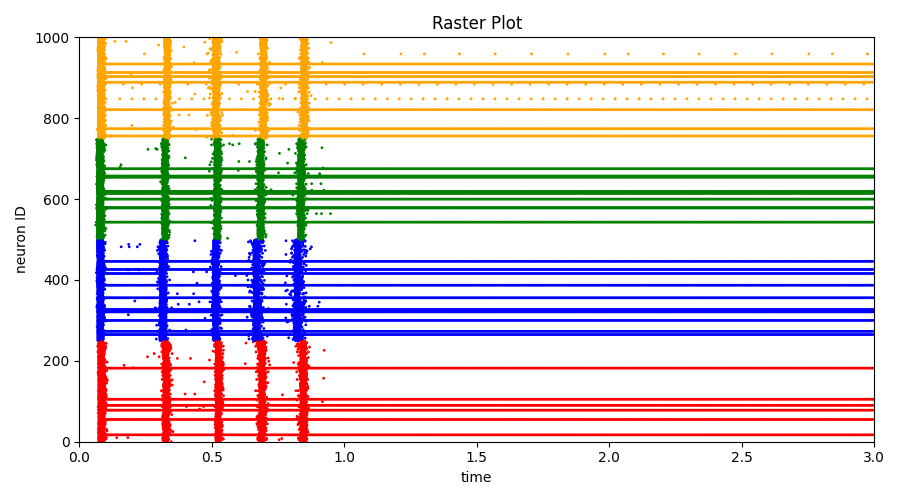
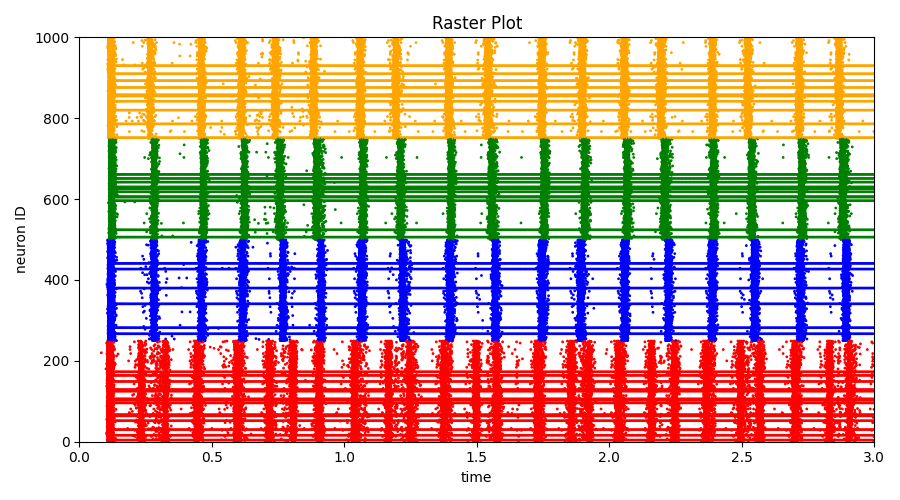
軽微な修正

diff --git a/demo_LIF.py b/demo_LIF.py
@@ -13,37 +13,48 @@ from line_profiler import LineProfiler
 
 
 def main():
-    SEED = int(random.random() * 1000)
 
-    # SEED = 890
-
-    # set a PQN cell
     N = int(input("number of neurons: "))
-    cell0=LIF(N = N)
-    dt = 0.0001
-
-    # set a synapse
-    synapses_out1 = tsodyks_markram(N, dt=dt, tau_rec=0.5, U=0.5)
-
+    
     # ---- initialization ----
+    SEED = int(random.random() * 1000)
+    # SEED = 890
+    dt = 1e-4  # [s]
     tmax=3    # length of simulation [s]
+    cell0=LIF(N = N)
+    synapses_out1 = tsodyks_markram(N, dt=dt, tau_rec=0.5, U=0.5)
     number_of_iterations=int(tmax/dt)
-    v0= np.zeros((number_of_iterations, N), dtype='float16')
-    spike = np.zeros(N)
+    I=np.zeros((number_of_iterations, N))
+    for i in range(100):
+        temp = 0.9*random.random()/dt
+        I[int(temp):int(0.1/dt+temp),random.randint(0,N-1)] = 0.13
+    # I[int(0.05/dt):int(0.15/dt),0] = 0.13
+    v0= np.zeros((number_of_iterations, N))
+    rasters = np.zeros((number_of_iterations, N), dtype=bool)
+    synapses_spike = np.zeros((13, N, N), dtype=bool)
+    output = np.zeros((number_of_iterations+int(0.5//dt), N))
+    next_input = np.zeros(N)
+    delays = np.random.randint(8, 13, size=(N,N))  # delay for each neuron
+    # delays = np.vstack([delays for _ in range(N)])  # shape (N, N)
+    col = np.arange(N).reshape(N,1)
     resovoir_weight = np.zeros((N, N))
     resovoir_origin = np.zeros((N, N))
     random.seed(SEED) # for reproducibility
     np.random.seed(SEED)
     num = 0
 
-    # --- Create reservoir weights with clustered structure ---
+
+    # ---- 重み行列の作成 ----
     resovoir_origin, mask = create_reservoir_matrix(N)
+    resovoir_weight = np.copy(resovoir_origin)
+    synapses_out1.mask = mask != 0
+    synapses_out1.mask_faci = mask == -1
+    synapses_out1.U[mask == -1] = 0
 
     # ---- 重み行列の可視化 ----
     visualize_matrix(resovoir_origin, num)
     num += 1
 
-    resovoir_weight = np.copy(resovoir_origin)
     # 正規化と自己結合強化
     for i in range(N):
         count = np.count_nonzero(resovoir_weight[i])
@@ -54,27 +65,11 @@ def main():
             synapses_out1.U[i][i] = 0.1
             synapses_out1.tau_rec[i][i] = 0.1
 
-    synapses_out1.mask = mask != 0
-    synapses_out1.mask_faci = mask == -1
-    synapses_out1.U[mask == -1] = 0
 
     # ----  NetworkX グラフに変換 ----
     show_network(resovoir_weight, N, SEED, num)
     num += 1
 
-    # ---- set step input ----
-    I=np.zeros((number_of_iterations, N))
-    for i in range(100):
-        temp = 0.9*random.random()/dt
-        I[int(temp):int(0.1/dt+temp),random.randint(0,N-1)] = 0.13
-    # I[int(0.05/dt):int(0.15/dt),0] = 0.13
-    rasters = np.zeros((number_of_iterations, N), dtype=bool)
-    synapses_spike = np.zeros((13, N, N), dtype=bool)
-    output = np.zeros((number_of_iterations+int(0.5//dt), N))
-    next_input = np.zeros(N)
-    delays = np.random.randint(8, 13, size=(N,N))  # delay for each neuron
-    # delays = np.vstack([delays for _ in range(N)])  # shape (N, N)
-    col = np.arange(N).reshape(N,1)
     resovoir_weight = resovoir_weight * 70  # 重みのスケーリング
 
     # ---- RUN SIMULATION ----
